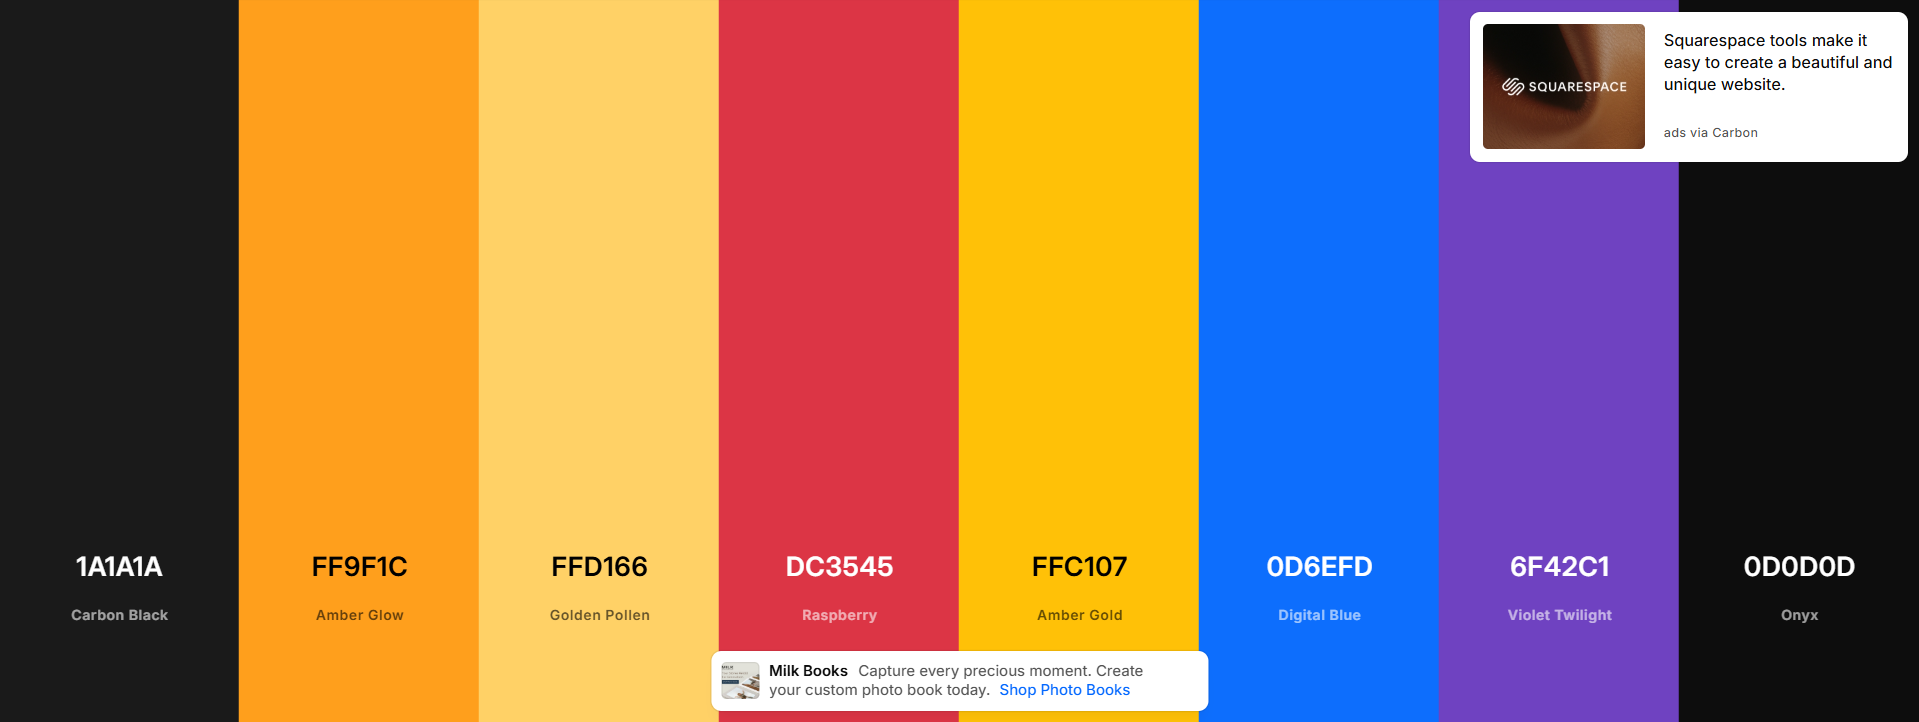
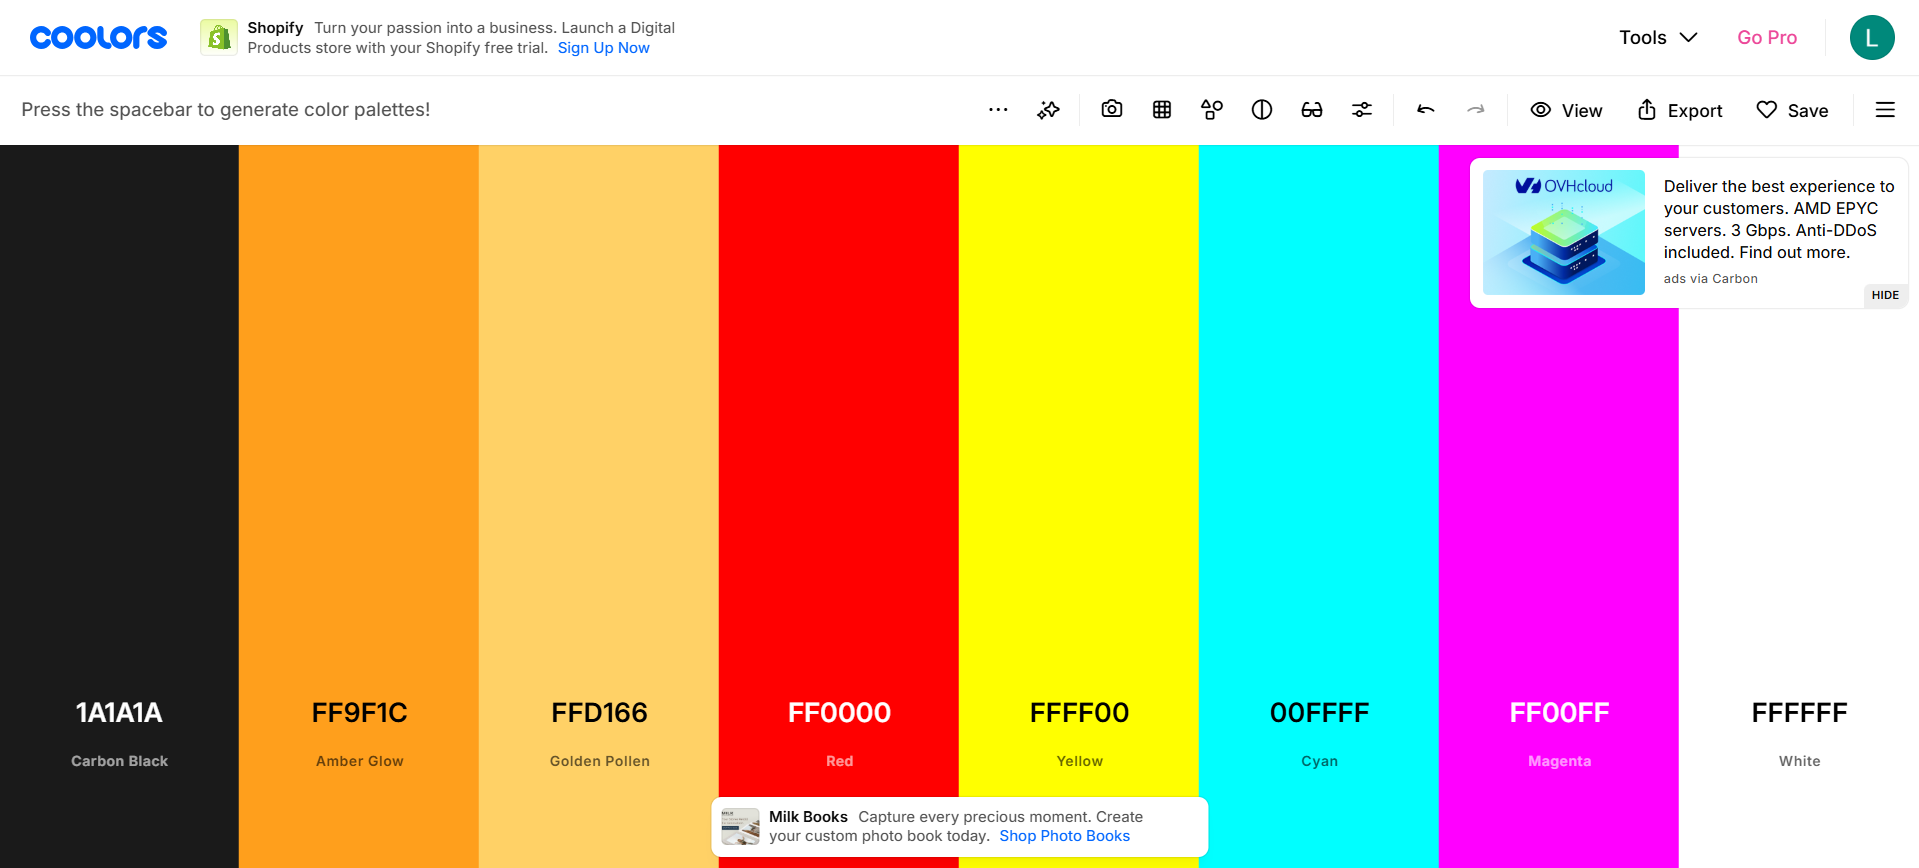
Update Colour Scheme on README

diff --git a/README.md b/README.md
@@ -179,17 +179,28 @@ You can see these implemented throughout the CSS file.
 I generated the following custom colour palette specifically to reflect a **Jak II inspired atmosphere**, with dark dystopian sci-fi tones while using eco colours as visual highlights.
 
 - `#1a1a1a` - Primary dark background
+- `#ffffff` - Default white
 - `#ff9f1c` - Main Jak-orange text (titles, headers)
 - `#ffd166` - Hover highlights
-- `dc3545` - Red eco theme
-- `ffc107` - Yellow eco theme
-- `0d6efd` - Blue eco theme
-- `#6f42c1` - Purple eco theme
+- `ff0000` - "Red" eco theme
+- `ffff00` - "Yellow" eco theme
+- `00ffff` - "Blue" eco theme (represented by cyan for greater contrast)
+- `#ff00ff` - "Dark" eco theme (respresented by magenta for greater contrast)
 - `#0d0d0d` - Secondary dark (navbar + footer)
 
-I used [coolors.co](https://coolors.co/1a1a1a-ff9f1c-ffd166-dc3545-ffc107-0d6efd-6f42c1-0d0d0d) to generate my color palette.
+Blue (#0000ff) and purple (#800080) were originally used for the "Blue" and "Dark" styling on the weapon list and weapon detail pages but after WAVE testing and visual assessment, I decided to switch them to cyan and magenta for better accessibility.
+
+I also switched to brighter shades of red and yellow for the same reason and ultimately decided to implement a colour picker into the CRUD functionality to give admin users the freedom to create and update colours as they see fit.
+
+I used [Coolors](https://coolors.co/1a1a1a-ff9f1c-ffd166-ff0000-ffff00-00ffff-ff00ff-ffffff) to generate my color palette.
 
 ![screenshot](documentation/coolors.png)
+
+I also used [EightShapes Contrast Grid](https://contrast-grid.eightshapes.com/?version=1.1.0&background-colors=&foreground-colors=%23000000%2C%0D%0A%23FF9F1C%2C%0D%0A%23FFD166%2C%0D%0A%23FF0000%2C%0D%0A%23FFFF00%2C%0D%0A%2300FFFF%2C%0D%0A%23FF00FF%2C%0D%0A%23FFFFFF%2C&es-color-form__tile-size=compact&es-color-form__show-contrast=aaa&es-color-form__show-contrast=aa&es-color-form__show-contrast=aa18&es-color-form__show-contrast=dnp) to generate my contrast grid.
+
+As shown in the top row, all colours used are rated AAA or AA against the dark background by WCAG (Web Content Accessibility Guidelines).
+
+![screenshot](documentation/contrast-grid.png)
 
 ---
 
